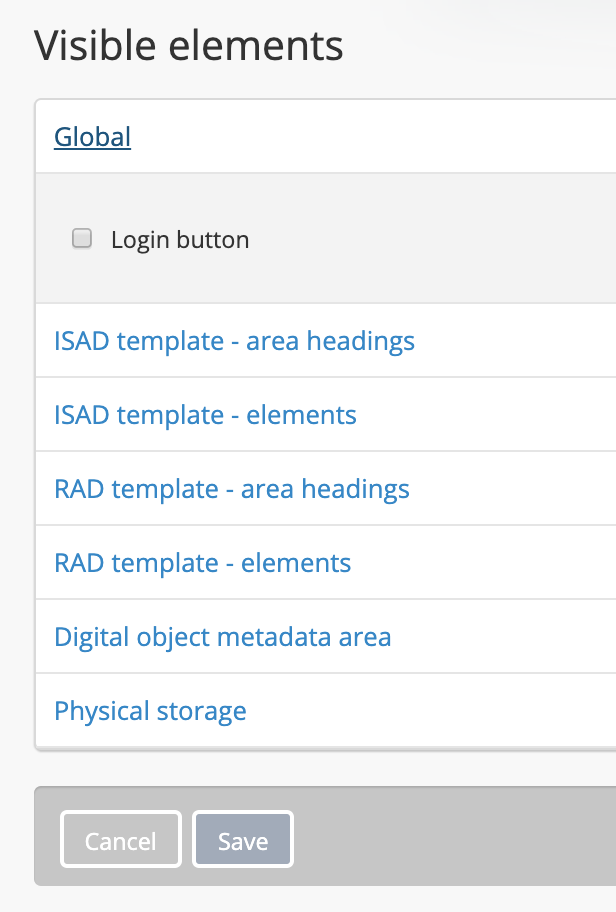
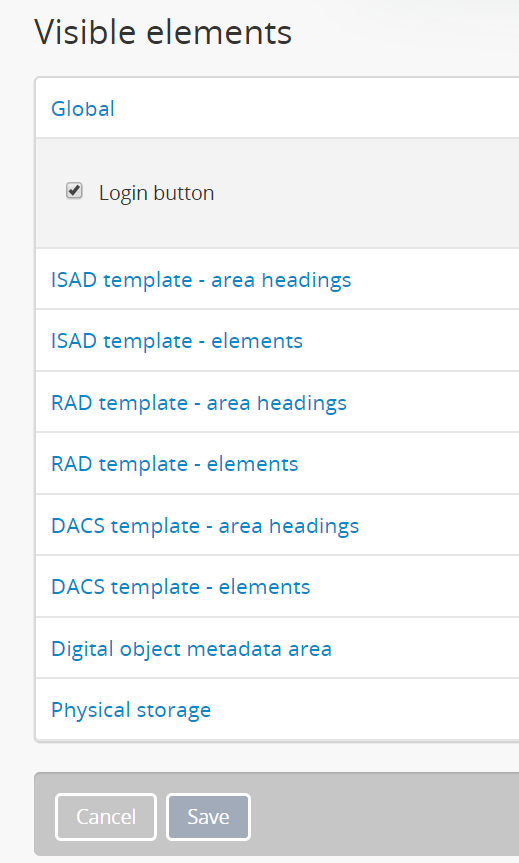
Update visible elements to include DACS; refs #12798

Changed region(s): [[0.0308, 0.0, 1.0, 0.9942]]

diff --git a/user-manual/administer/visible-elements.rst b/user-manual/administer/visible-elements.rst
@@ -63,6 +63,7 @@ Below you will find a brief outline of each Visible elements area:
    * :ref:`archival-descriptions`
    * :ref:`isad-template`
    * :ref:`rad-template`
+   * :ref:`dacs-template`
    * :ref:`physical-storage`
    * :ref:`upload-digital-object`
    * :ref:`log-in`
@@ -72,12 +73,12 @@ Below you will find a brief outline of each Visible elements area:
 Hide or show the login button
 =============================
 
-With the release of 2.5, an :term:`administrator` can hide the login button for
-public users. The default setting allows the login button to be visible to all
-users. To change this so that the login button is hidden to public users, an
-:term:`administrator` can click the Global section of Visible Elements and
-uncheck the login button. Click "Save", and exit Visible Elements. The login
-button will still be visible for authenticated (i.e. logged in) users, but
+An :term:`administrator` can hide the login button for public users. The
+default setting allows the login button to be visible to all users. To change
+this so that the login button is hidden to public users, an
+:term:`administrator` can click the Global section of Visible Elements and 
+uncheck the login button. Click "Save", and exit Visible Elements. The login 
+button will still be visible for authenticated (i.e. logged in) users, but 
 hidden for unauthenticated users.
 
 .. image:: images/visible-elements-global.*
@@ -117,9 +118,9 @@ based.
 
 While these area headers are useful to archivists working with content
 standards for archival description, they may not be meaningful to public
-users. As of AtoM 2.1, an :term:`administrator` can now hide the various
-:term:`area headers <area header>` for the :ref:`RAD <rad-template>` and
-:ref:`ISAD <isad-template>` templates.
+users. If desired, an :term:`administrator` can choose to hide the various
+:term:`area headers <area header>` for the :ref:`RAD <rad-template>`, 
+:ref:`DACS <dacs-template>`, and :ref:`ISAD <isad-template>` templates.
 
 .. image:: images/visible-elements-headers.*
    :align: center
@@ -155,21 +156,22 @@ hidden (i.e. all check boxes |uncheck| unchecked):
 Hide or show metadata fields
 ============================
 
-Within the :ref:`ISAD <isad-template>` and :ref:`RAD <rad-template>`
-templates for :term:`archival descriptions <archival description>`, specific
+Within the :ref:`ISAD <isad-template>`, :ref:`RAD <rad-template>`, and 
+:ref:`DACS <dacs-template>` templates for 
+:term:`archival descriptions <archival description>`, specific
 :term:`fields <field>` can also be hidden from public users if desired.
 
-The names of each field available in the ISAD and RAD elements areas are taken
-directly from field names in AtoM's data entry templates - which are
+The names of each field available in the ISAD, RAD, and DACS elements areas are
+taken directly from field names in AtoM's data entry templates - which are
 themselves drawn directly from the related content standards. For specific
 information on each field, see: :ref:`data-entry`.
 
 An authenticated (logged-in) :term:`administrator` can |check| check the
 checkboxes to reveal the :term:`field`, while an |uncheck| unchecked box hides
 the field. To review which fields can be hidden from the public, select the
-ISAD template and /or the RAD template as applicable. Whether you hide/show
-elements from the  ISAD or RAD area depends on which
-:ref:`default template <default-templates>` you are using.
+ISAD template, the RAD template, and/or the DACS template as applicable. Whether 
+you choose to hide or show elements from the ISAD, RAD, and/or DACS area 
+depends on which :ref:`default template <default-templates>` you are using.
 
 .. image:: images/visible-elements-isad.*
    :align: center
